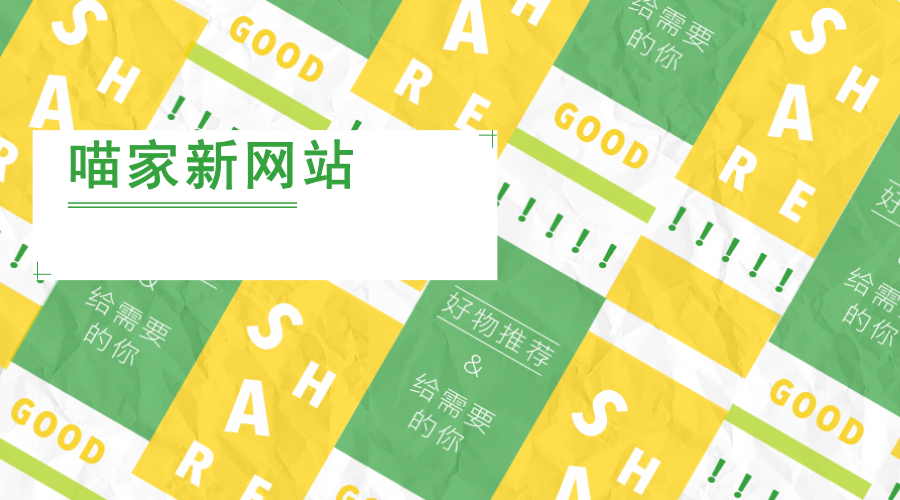
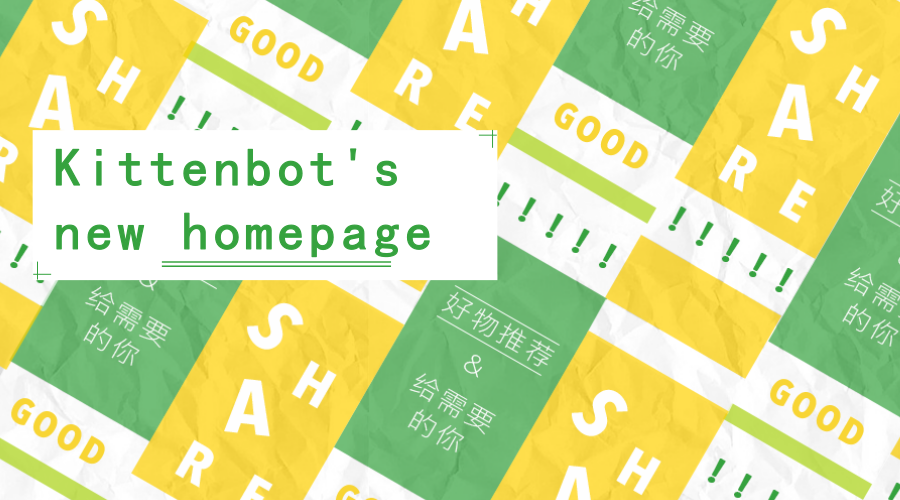
update en content

Changed region(s): [[0.0622, 0.27, 0.4978, 0.54]]

diff --git a/meta/config.js b/meta/config.js
@@ -35,5 +35,11 @@ module.exports = {
     { name: "github", url: "https://github.com/kittenbot" },
     { name: "twitter", url: "https://twitter.com/kittenbot1" },
     { name: "facebook", url: "http://facebook.com/kittenbotcc" }
-  ]
+  ],
+  menu: {
+    blog: { to: "/blogs/", label: "Blog" },
+    products: { to: "/products/", label: "Product" },
+    bbs: { to: "http://kittenbot.cn/bbs/index.php", label: "Forum" },
+    contact: { to: "/contact/", label: "Contact" }
+  }
 };

diff --git a/pages/1--software/index.md b/pages/1--software/index.md
@@ -1,6 +1,6 @@
 ---
-title: 小喵家各种软件下载
-menuTitle: 软件
+title: Various software links
+menuTitle: Soft
 ---
 
 
@@ -8,15 +8,12 @@ menuTitle: 软件
 
 ![](./kittenblock_main.png)
 
-## 最新版本V1.80 下载地址
+## Latest Version V1.80
 
 windows： [http://cdn.kittenbot.cn/win/Kittenblock Setup 1.8.0.exe](http://cdn.kittenbot.cn/win/Kittenblock%20Setup%201.8.0.exe)
 
 mac: [http://cdn.kittenbot.cn/mac/Kittenblock-1.8.0.dmg](http://cdn.kittenbot.cn/mac/Kittenblock-1.8.0.dmg)
 
-历史版本和改进意见请前往我们的bbs发布帖子，谢谢 ~
-
-http://kittenbot.cn/bbs/forum.php?mod=viewthread&tid=115
 
 ## Makecode
 
@@ -26,7 +23,7 @@ http://kittenbot.cn/bbs/forum.php?mod=viewthread&tid=115
  
 [http://cdn.kittenbot.cn/makecode/win/Makecode Setup 3.4.0.exe](http://cdn.kittenbot.cn/makecode/win/Makecode%20Setup%203.4.0.exe)
 
-另有绿色版下载，直接解压就能用喽~
+Optional non-install zip package.
  
 [http://cdn.kittenbot.cn/makecode/win/makecode3.4.zip](http://cdn.kittenbot.cn/makecode/win/makecode3.4.zip)
 
@@ -34,32 +31,27 @@ http://kittenbot.cn/bbs/forum.php?mod=viewthread&tid=115
 
 [http://cdn.kittenbot.cn/makecode/mac/Makecode-3.1.0.dmg](http://cdn.kittenbot.cn/makecode/mac/Makecode-3.1.0.dmg)
 
-大家也可以前往我们论坛的makecode发布和讨论帖提出bug和修改建议：
-
-[论坛Makecode发布帖](http://kittenbot.cn/bbs/forum.php?mod=viewthread&tid=156&extra=page%3D1)
-
 ## KBlock APP
 
-## Microbit 0025固件
+## Microbit 0025 Main Firmware
 
-## 各种驱动程序
+## Drivers
 
-### Microbit串口驱动
+### Microbit Serial Driver
 
 [mbedWinSerial](http://cdn.kittenbot.cn/mbedWinSerial_16466.exe)
 
-### CH340串口驱动
+### CH340 USB-serial Driver
 
 [Windows](http://cdn.kittenbot.cn/CH341SER.EXE)
 
 [Mac](http://cdn.kittenbot.cn/CH341SER_MAC.ZIP)
 
-### Zdiag过滤驱动安装器
+### Zdiag USBLIB replacer
 
 [https://zadig.akeo.ie/downloads/zadig-2.4.exe](https://zadig.akeo.ie/downloads/zadig-2.4.exe)
 
 
-`·PS: 流光溢彩编辑器已经迁移至实验室`
 
 
 

diff --git a/pages/4--shop/index.md b/pages/4--shop/index.md
@@ -1,22 +1,16 @@
 ---
-title: 小喵家的杂货铺
-menuTitle: 商店
+title: Kittenbot’s grocery store
+menuTitle: Shop
 ---
 
-## 我们的淘宝店：
+## Online Shop
 
-### http://kittenbot.taobao.com
-
-ps:任性的客服小妹会时不时发优惠哦 ~
-
-如果产品又问题请直接联系淘宝客服
-
-售后技术支持请加qq群：568084773
+Under construction
 
 
-我们的分销商：
+Our distributors：
 
 [to be finished]
 
-希望成为我们的合作伙伴或者分销商请联系 c@kittenbot.cc
+Want to be our partner or distributor, please contact c@kittenbot.cc
 

diff --git a/pages/3--lab/index.md b/pages/3--lab/index.md
@@ -1,21 +1,18 @@
 ---
-title: 各种新奇有趣好玩的东东
-menuTitle: 实验室
+title: Tools and projects from kittenbot team
+menuTitle: Lab
 ---
 
-## Scratch3 项目分享
 
-网站改版中，预计上线时间 2018/12
+## NeoMatrix editor
 
-## 流光溢彩编辑器
+https://kittenbot.github.io/pxt-neomatrix/index.html
 
-网站改版中，预计上线时间 2018/12 
+## Iot Dashboard
 
-## Iot 服务终端
+Under construction
 
-网站改版中，预计上线时间 2018/12
-
-## Makecode 在线版编辑器 (comming soon)
+## Makecode Editor (comming soon)
 
 ### Microbit
 

diff --git a/pages/2--learn/index.md b/pages/2--learn/index.md
@@ -1,11 +1,15 @@
 ---
-title: 这里有喵家所有教程文档
-menuTitle: 文档
+title: Here are all the tutorial documents for you.
+menuTitle: Doc
 ---
 
-售后技术支持请加qq群：568084773
+Technical support: Join Slack Channel
 
-### 文档大杂烩
-（包括喵家2017~2018所有产品文档教程和使用说明）
+### Document hodgepodge
+(Including the 2017~2018 all product documentation tutorials and instructions for user)
+
+http://learn.kittenbot.cc
+
+or
 
 http://learn.kittenbot.cn

diff --git a/pages/success/index.md b/pages/success/index.md
@@ -1,6 +1,6 @@
 ---
-title: 邮件发送成功
+title: Email send success
 ---
 
-非常感谢您的反馈. <br />
-我们会第一时间回复到您留下的邮箱
+Thank you very much for your feedback. <br />
+We will reply to your email address as soon as possible.
